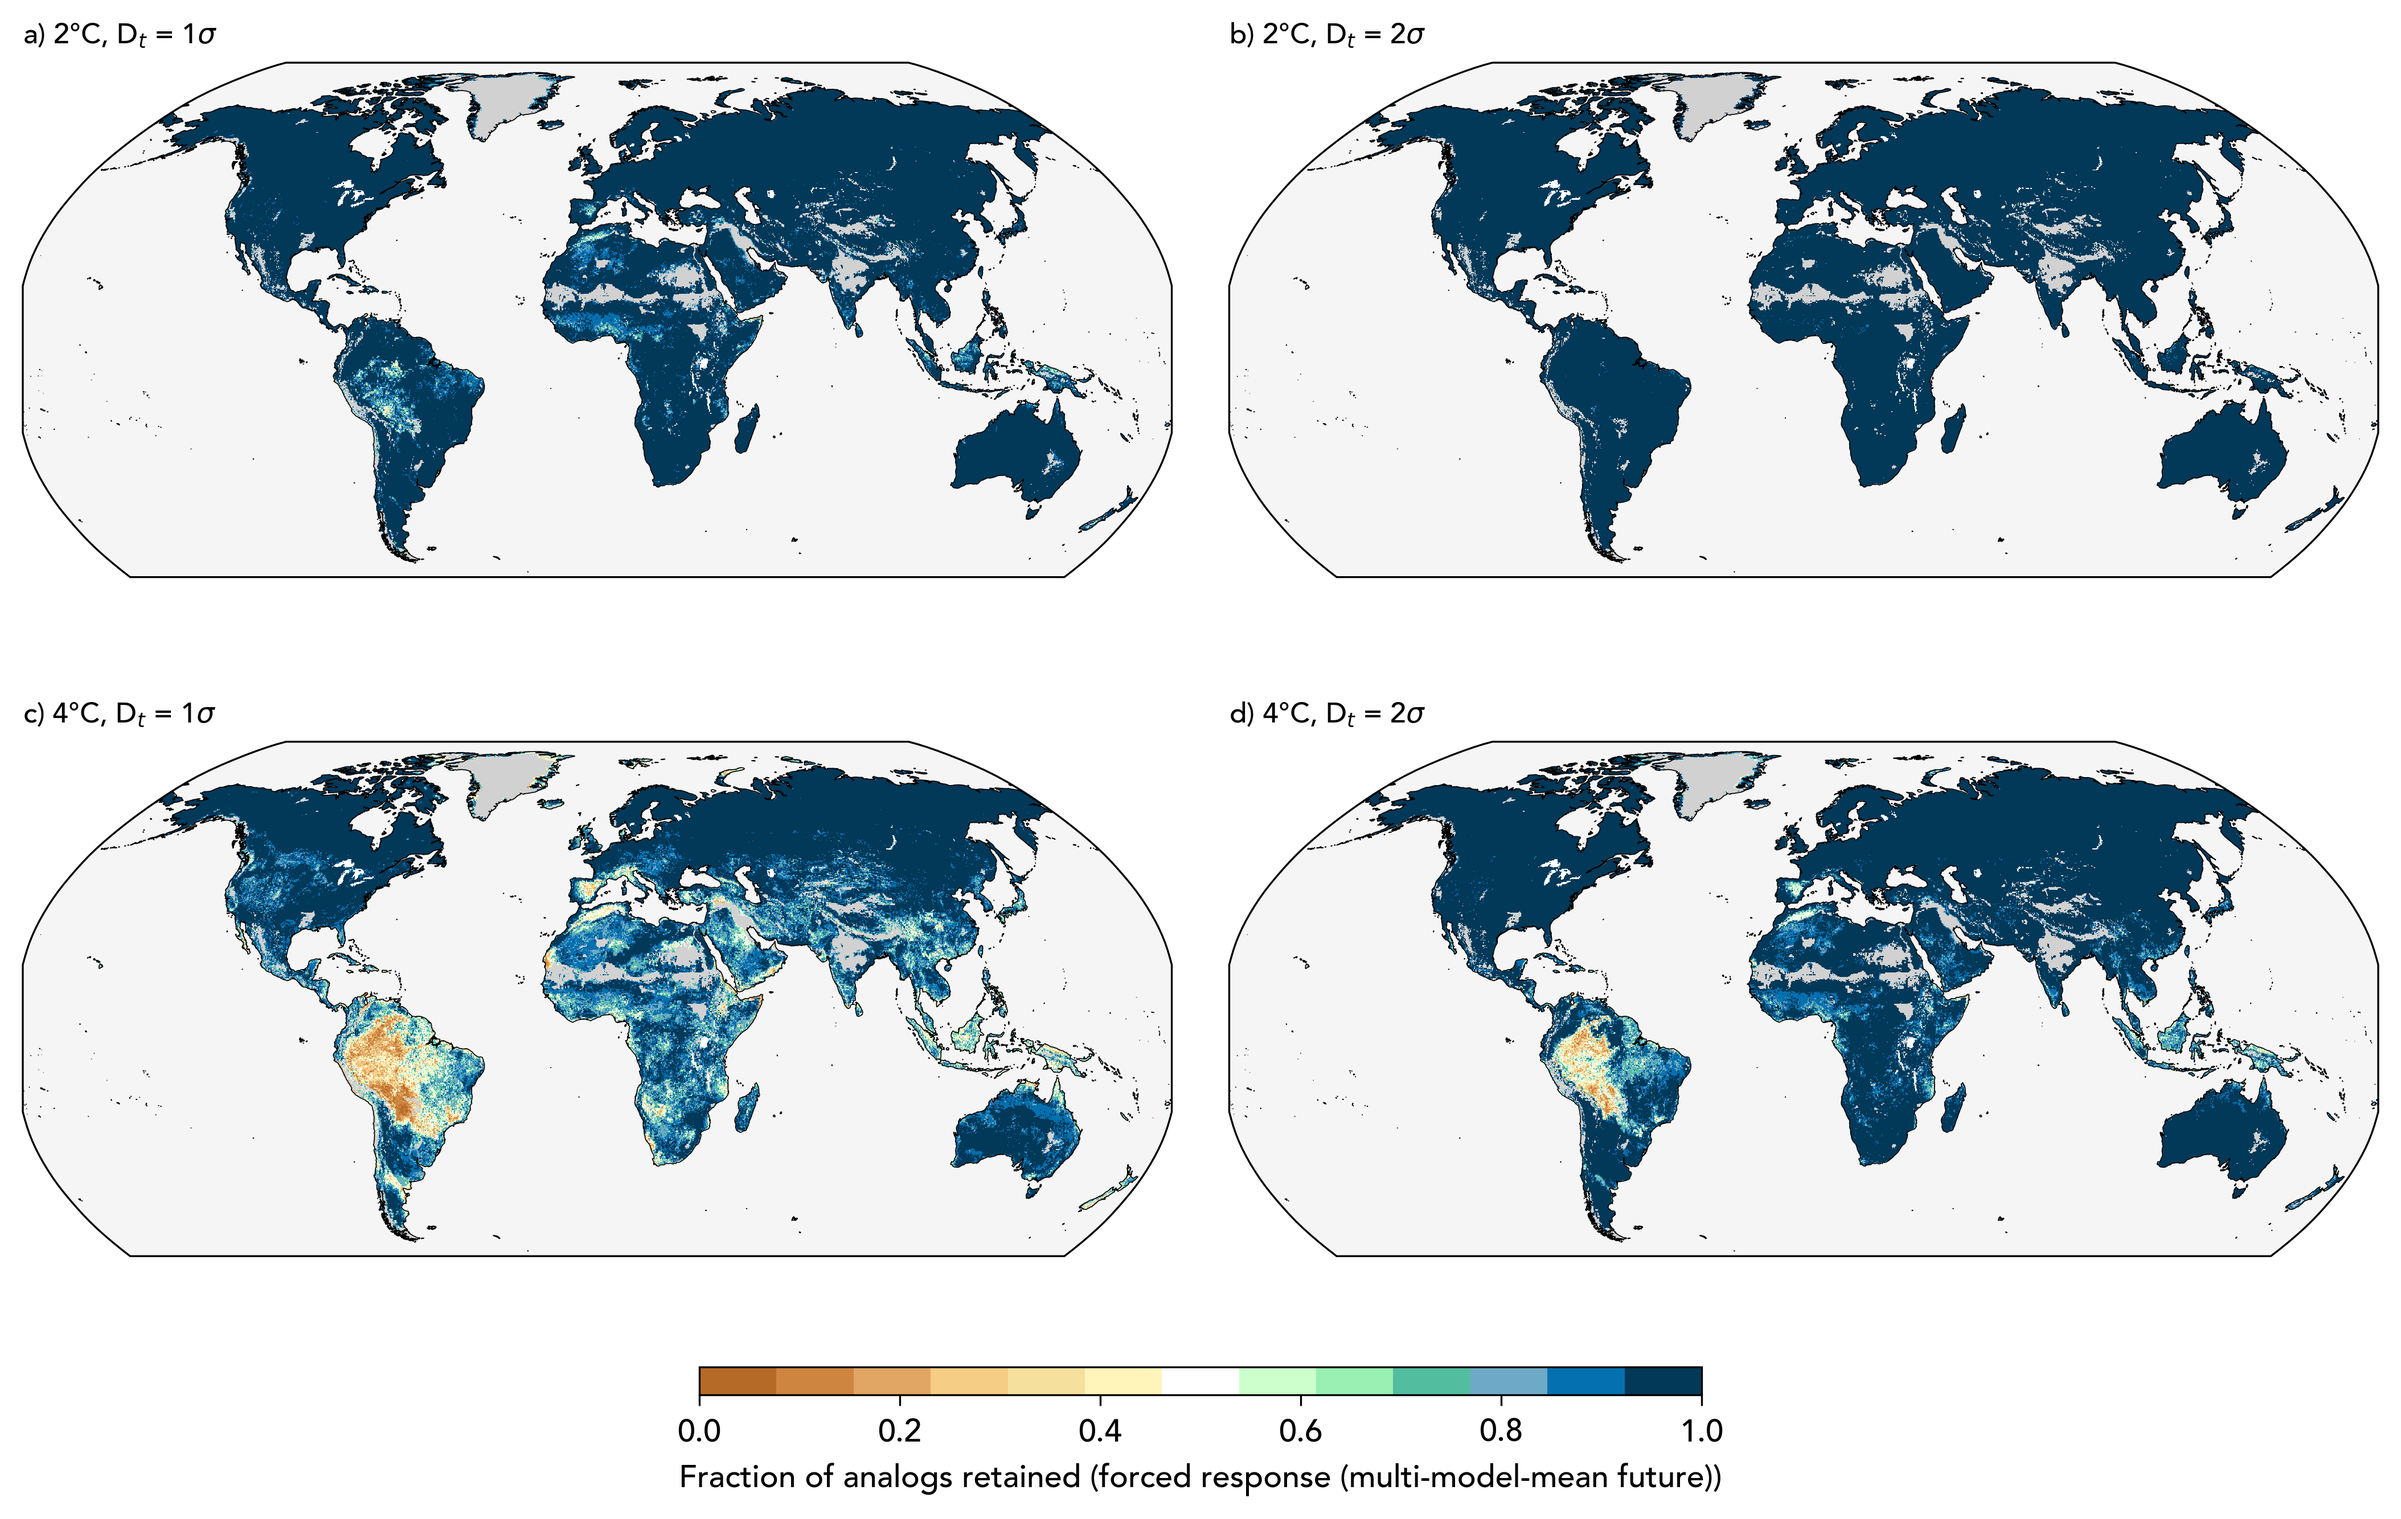
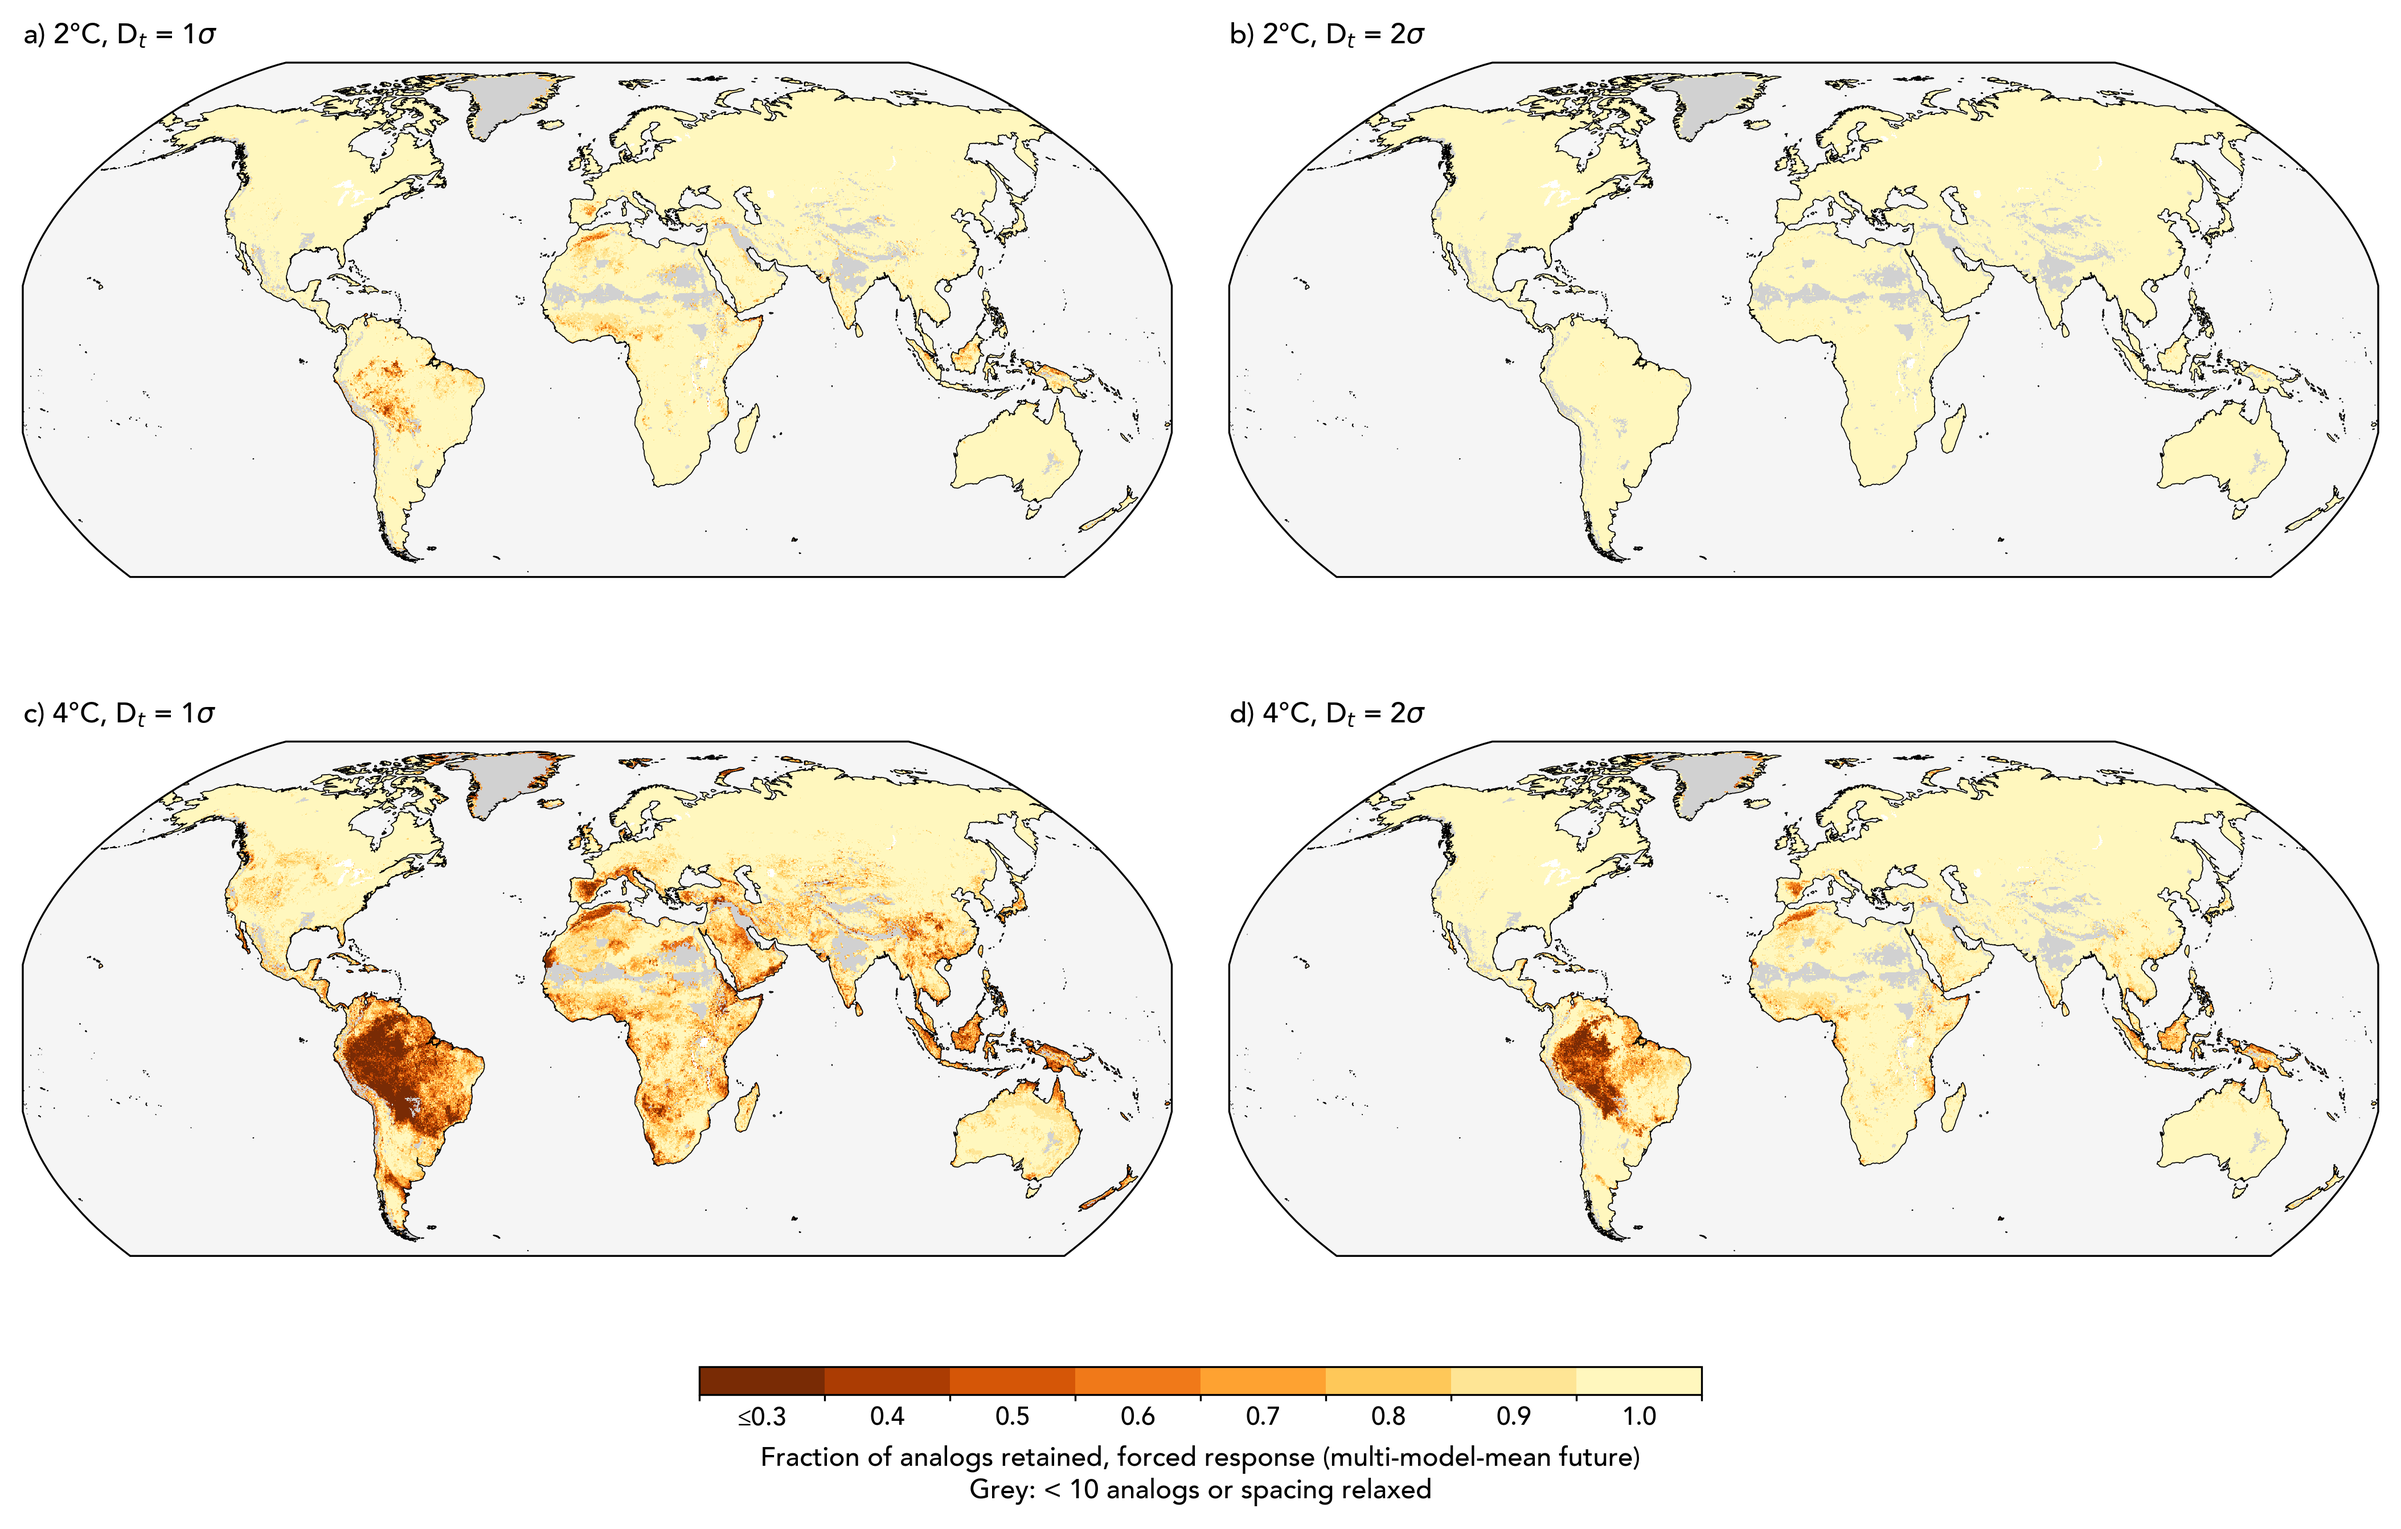
retention map edits

diff --git a/plot/diag.retention.uncertainty.py b/plot/diag.retention.uncertainty.py
@@ -1,0 +1,169 @@
+#!/bin/python
+#
+# Is the overlap of "uncertain" stippling with low forced retention mechanical?
+#
+# Hypothesis (mechanical): a pair can only be UNCERTAIN (retained by 20-80% of
+# models) if its forced (mmm) future distance is near the Dt threshold, so
+# uncertainty must pile up where forced retention is low. If that is all that
+# is going on:
+#   (1) the fraction of uncertain analogs should be a tight function of forced
+#       retention (panel a), and
+#   (2) uncertainty should peak where the cell's median forced pair distance
+#       sits at the threshold and fall off on both sides (panel b).
+# Real model disagreement shows up as:
+#   - uncertainty in cells with forced retention >= 0.9 (models split even
+#     though the forced response keeps the pair), and
+#   - pairs in low-retention cells that a MAJORITY of models retain (panel c),
+#     i.e. the forced response loses a pair most models keep.
+#
+# Output: plot/figures/diag_retention_uncertainty.png + console table.
+# Dt = DT_STRICT (1 sigma). Area-weighted (cos lat). Coverage mask as in Fig 2.
+import numpy as np
+import matplotlib.pyplot as plt
+from scipy.stats import chi, norm
+import plot_common as pcm
+from plot_common import wmean, gwl_label, dt_tag
+
+pcm.setup_style()
+R = pcm.Retention(mask_low_coverage=True)
+ds = R.ds
+dt = pcm.DT_STRICT
+t = dt_tag(dt)
+GWLS = [g for g in ('gwl2', 'gwl3', 'gwl4') if g in R.gwls]
+LO_AGREE, HI_AGREE = 0.2, 0.8
+
+# Tenths: kept cells have n = 10 analogs, so retention and uncert are k/10
+edges = np.arange(-0.05, 1.06, 0.1)
+cent = 0.5 * (edges[:-1] + edges[1:])
+
+# futdist_mmm is the median over analogs of the Mahalanobis distance D
+# (ICV units) between the two future climates. Convert to sigma so it is on
+# the same scale as Dt. (Assumes m = 2 variables; check cfg if that changes.)
+M_VARS = 2
+
+
+def d_to_sigma(D):
+    return norm.ppf(0.5 * (1.0 + chi.cdf(D, M_VARS)))
+
+
+fig, axes = plt.subplots(3, len(GWLS), figsize=(4.0 * len(GWLS), 10.5),
+                         gridspec_kw=dict(hspace=0.45, wspace=0.28, top=0.93))
+axes = np.atleast_2d(axes)
+if axes.shape[0] != 3:
+    axes = axes.T
+
+rows = []
+for c, g in enumerate(GWLS):
+    ret = R.masked(R.central(g, dt))
+    unc = R.masked(ds[f'uncert_{g}_{t}'].values)
+    ok = np.isfinite(ret) & np.isfinite(unc)
+    w = R.W[ok]
+    x, y = ret[ok], unc[ok]
+
+    # ---- (a) conditional distribution of uncert given forced retention ----
+    H, _, _ = np.histogram2d(x, y, bins=[edges, edges], weights=w)
+    colsum = H.sum(axis=1, keepdims=True)
+    Hc = np.where(colsum > 0, H / np.where(colsum > 0, colsum, 1), np.nan)
+    ax = axes[0, c]
+    pm = ax.pcolormesh(edges, edges, Hc.T, cmap='Greys', vmin=0, vmax=0.6)
+    mean_unc = np.array([wmean(y[(x > lo) & (x <= hi)], w[(x > lo) & (x <= hi)])
+                         for lo, hi in zip(edges[:-1], edges[1:])])
+    ax.plot(cent, mean_unc, 'o-', color='C3', ms=3, lw=1.2, label='mean')
+    ax.set_xlim(-0.05, 1.05); ax.set_ylim(-0.05, 1.15)
+    ax.set_xlabel('Forced retention (fraction)', fontsize=8)
+    ax.set_ylabel('Fraction of analogs uncertain', fontsize=8)
+    ax.set_title(f'a{c + 1}) {gwl_label(g)}: uncertain | forced retention', loc='left', fontsize=8.5)
+    ax.tick_params(labelsize=7)
+    # share of each retention class in area (top axis annotation)
+    area = colsum.ravel() / colsum.sum()
+    for xc, a in zip(cent, area):
+        if a > 0:
+            ax.text(xc, 1.13, f'{100 * a:.0f}', ha='center', va='top', fontsize=5.5,
+                    color='0.4')
+
+    # ---- (b) uncert vs median forced pair distance relative to threshold ----
+    fd = R.masked(ds[f'futdist_mmm_{g}'].values)
+    okb = ok & np.isfinite(fd)
+    s_med = d_to_sigma(fd[okb])
+    rel = s_med - dt
+    ub = unc[okb]; wb = R.W[okb]
+    be = np.arange(-1.5, 2.01, 0.1)
+    bc = 0.5 * (be[:-1] + be[1:])
+    mb = np.array([wmean(ub[(rel > lo) & (rel <= hi)], wb[(rel > lo) & (rel <= hi)])
+                   for lo, hi in zip(be[:-1], be[1:])])
+    nb = np.array([wb[(rel > lo) & (rel <= hi)].sum() for lo, hi in zip(be[:-1], be[1:])])
+    mb[nb < 1e-3 * wb.sum()] = np.nan
+    ax = axes[1, c]
+    ax.plot(bc, mb, '-', color='k', lw=1.3)
+    ax.axvline(0, color='C3', lw=0.8, ls='--')
+    ax.set_xlim(be[0], be[-1]); ax.set_ylim(0, 1)
+    ax.set_xlabel(r'Median forced pair $\sigma$ minus D$_t$', fontsize=8)
+    ax.set_ylabel('Mean fraction uncertain', fontsize=8)
+    ax.set_title(f'b{c + 1}) {gwl_label(g)}: uncertain vs distance to threshold', loc='left',
+                 fontsize=8.5)
+    ax.grid(alpha=0.3, lw=0.5); ax.tick_params(labelsize=7)
+
+    # ---- (c) per-pair model agreement, by forced-retention class of the cell ----
+    pc = ds[f'pairconf_{g}_{t}'].values.astype(float)        # (lat, lon, rank), percent
+    pc[pc == 255] = np.nan
+    pc /= 100.0
+    classes = {'forced ret. ≤ 0.3': (ret <= 0.35),
+               '0.4-0.8': (ret > 0.35) & (ret <= 0.85),
+               '≥ 0.9': (ret > 0.85)}
+    ax = axes[2, c]
+    pe = np.linspace(0, 1, 21)
+    for (lab, cm), col in zip(classes.items(), ('#792b05', '#f07919', '#c9a227')):
+        m = cm & ok
+        p = pc[m]                                             # (ncell, rank)
+        wp = np.broadcast_to(R.W[m][:, None], p.shape)
+        fin = np.isfinite(p)
+        hist, _ = np.histogram(p[fin], bins=pe, weights=wp[fin])
+        hist = hist / hist.sum() if hist.sum() > 0 else hist
+        ax.stairs(hist, pe, color=col, lw=1.3, label=lab)
+        pf, wf = p[fin], wp[fin]
+        rows.append(dict(
+            g=g, cls=lab, area=R.W[m].sum() / R.W[ok].sum(),
+            unc=np.sum(wf * ((pf > LO_AGREE) & (pf < HI_AGREE))) / wf.sum(),
+            maj_keep=np.sum(wf * (pf >= 0.5)) / wf.sum(),
+            rob_lost=np.sum(wf * (pf <= LO_AGREE)) / wf.sum()))
+    for v in (LO_AGREE, HI_AGREE):
+        ax.axvline(v, color='0.5', lw=0.6, ls=':')
+    ax.set_xlim(0, 1)
+    ax.set_xlabel('Fraction of models retaining the pair', fontsize=8)
+    ax.set_ylabel('Area-weighted share of pairs', fontsize=8)
+    ax.set_title(f'c{c + 1}) {gwl_label(g)}: per-pair agreement', loc='left', fontsize=8.5)
+    ax.legend(fontsize=6.5, frameon=False, loc='upper center')
+    ax.grid(alpha=0.3, lw=0.5); ax.tick_params(labelsize=7)
+
+    # cell-level summaries
+    unc_w = w * y
+    rows_cell = dict(
+        r=np.corrcoef(x, y)[0, 1],
+        unc_in_high=unc_w[x > 0.85].sum() / unc_w.sum(),
+        unc_in_low=unc_w[x <= 0.55].sum() / unc_w.sum())
+    rows.append(dict(g=g, cls='CELL', **rows_cell))
+
+cax = fig.add_axes([0.92, 0.70, 0.012, 0.18])
+fig.colorbar(pm, cax=cax, label='share of cells in column')
+fig.suptitle(f'Is uncertainty mechanical? D$_t$ = {dt:g}$\\sigma$, '
+             f'{pcm.HEADLINE} central estimate. Grey numbers: % of area per column.',
+             fontsize=9, y=0.995)
+pcm.savefig(fig, 'diag_retention_uncertainty.png', dpi=200)
+
+# ==============================
+# console
+# ==============================
+print(f'\n--- Dt={dt:g}: cell level (area-weighted) ---')
+print('  corr(forced ret, uncert) | share of uncertain-analog area in cells with ret>=0.9 | ret<=0.5')
+for r in rows:
+    if r['cls'] == 'CELL':
+        print(f'  {r["g"]:<6} r={r["r"]:+.2f}   high={r["unc_in_high"]:.2f}   low={r["unc_in_low"]:.2f}')
+print('\n--- pair level, by forced-retention class of the cell ---')
+print('  class            area   uncertain   majority-of-models-keep   robustly lost')
+for r in rows:
+    if r['cls'] != 'CELL':
+        print(f'  {r["g"]:<6} {r["cls"]:<18} {r["area"]:.2f}   {r["unc"]:.2f}        '
+              f'{r["maj_keep"]:.2f}                     {r["rob_lost"]:.2f}')
+print('\nReading: mechanical-only => uncertainty ~0 in ret>=0.9 cells, peaks at 0 in (b), and few'
+      '\npairs in low-retention cells kept by a majority of models. Large "majority keep" in'
+      '\nlow-retention cells => forced (mmm) loses pairs most models keep (mean != median).')

diff --git a/plot/plot.retention.tiers.py b/plot/plot.retention.tiers.py
@@ -29,8 +29,8 @@ STIPPLE_BLOCK = max(1, int(round(2.5 / abs(float(R.lat[1] - R.lat[0])))))
 # ==============================
 dt = pcm.DT_STRICT
 cmap_ret, norm_ret = pcm.retention_cmap_norm()
-H = 3.05 * len(MAP_GWLS) + 1.4                     # bottom 1.4 in for colorbar + legend
-fig = plt.figure(figsize=(6.5, H))
+H = 8.5                     # bottom 1.4 in for colorbar + legend
+fig = plt.figure(figsize=(5.0, H))
 gs = fig.add_gridspec(len(MAP_GWLS), 1, hspace=0.1, top=1 - 0.2 / H, bottom=1.45 / H,
                       left=0.01, right=0.99)
 n_dots = 0
@@ -43,15 +43,15 @@ for r, g in enumerate(MAP_GWLS):
     n_dots += pcm.coarse_stipple(ax, R, np.nan_to_num(lost) >= ROBLOST_MAJORITY,
                                  block=STIPPLE_BLOCK)
 cax = fig.add_axes([0.12, 1.0 / H, 0.76, 0.06 / H * 3])
-pcm.retention_colorbar(fig, cax, pm, f'Fraction of analogs retained, {R.central_label()}')
+pcm.retention_colorbar(fig, cax, pm, f'Fraction of analogs retained')
 leg_h = [plt.Rectangle((0, 0), 1, 1, fc=pcm.COVERAGE_GREY, ec='none', label=pcm.COVERAGE_LABEL)]
 if n_dots:   # legend entry only if any block qualifies
     leg_h.insert(0, plt.Line2D([], [], ls='', marker='o', ms=3.5, mfc='k', mec='white', mew=0.4,
                                label=f'\u2265{ROBLOST_MAJORITY:.0%} of analogs robustly lost '
                                      f'(lost in \u226580% of models)'))
 print(f'  robust-loss dots drawn: {n_dots}')
-fig.legend(handles=leg_h, loc='upper center', bbox_to_anchor=(0.5, 0.42 / H), ncol=1, fontsize=7.5,
-           frameon=False, handlelength=1.2, labelspacing=0.4)
+#fig.legend(handles=leg_h, loc='upper center', bbox_to_anchor=(0.5, 0.45 / H), ncol=1, fontsize=10.0,
+#           frameon=False, handlelength=1.2, labelspacing=0.4)
 pcm.savefig(fig, 'retention_tier_maps.png')
 
 # ==============================
@@ -90,7 +90,7 @@ for ax, dt in zip(axes[:2], (pcm.DT_STRICT, pcm.DT_LOOSE)):
     ax.set_xlim(0, 1)
     ax.set_xticks([0, 0.25, 0.5, 0.75, 1.0])
     ax.set_xticklabels(['0', '0.25', '0.5', '0.75', '1'])
-    ax.set_title(f'{"ab"[int(dt != pcm.DT_STRICT)]}) D$_t$ = {dt:g}$\\sigma$', loc='left', fontsize=9)
+    ax.set_title(f'{"ab"[int(dt != pcm.DT_STRICT)]}) D$_t$ = {dt:g}$\\sigma$', loc='left')
     ax.set_xlabel('Area-weighted fraction of analogs', fontsize=8)
     ax.tick_params(labelsize=7)
     ax.grid(axis='x', alpha=0.3, lw=0.5)
@@ -115,7 +115,7 @@ for b, name, bm in blist:
         fn_rows.append((name, g, v))
         i += 1
 axf.set_xlim(0, 1); axf.set_xticks([])
-axf.set_title('c) f$_{noise}$', loc='left', fontsize=9)
+axf.set_title('c) f$_{noise}$', loc='left')
 axf.set_xlabel('noise share\nof model spread', fontsize=7)
 for s in axf.spines.values():
     s.set_visible(False)
